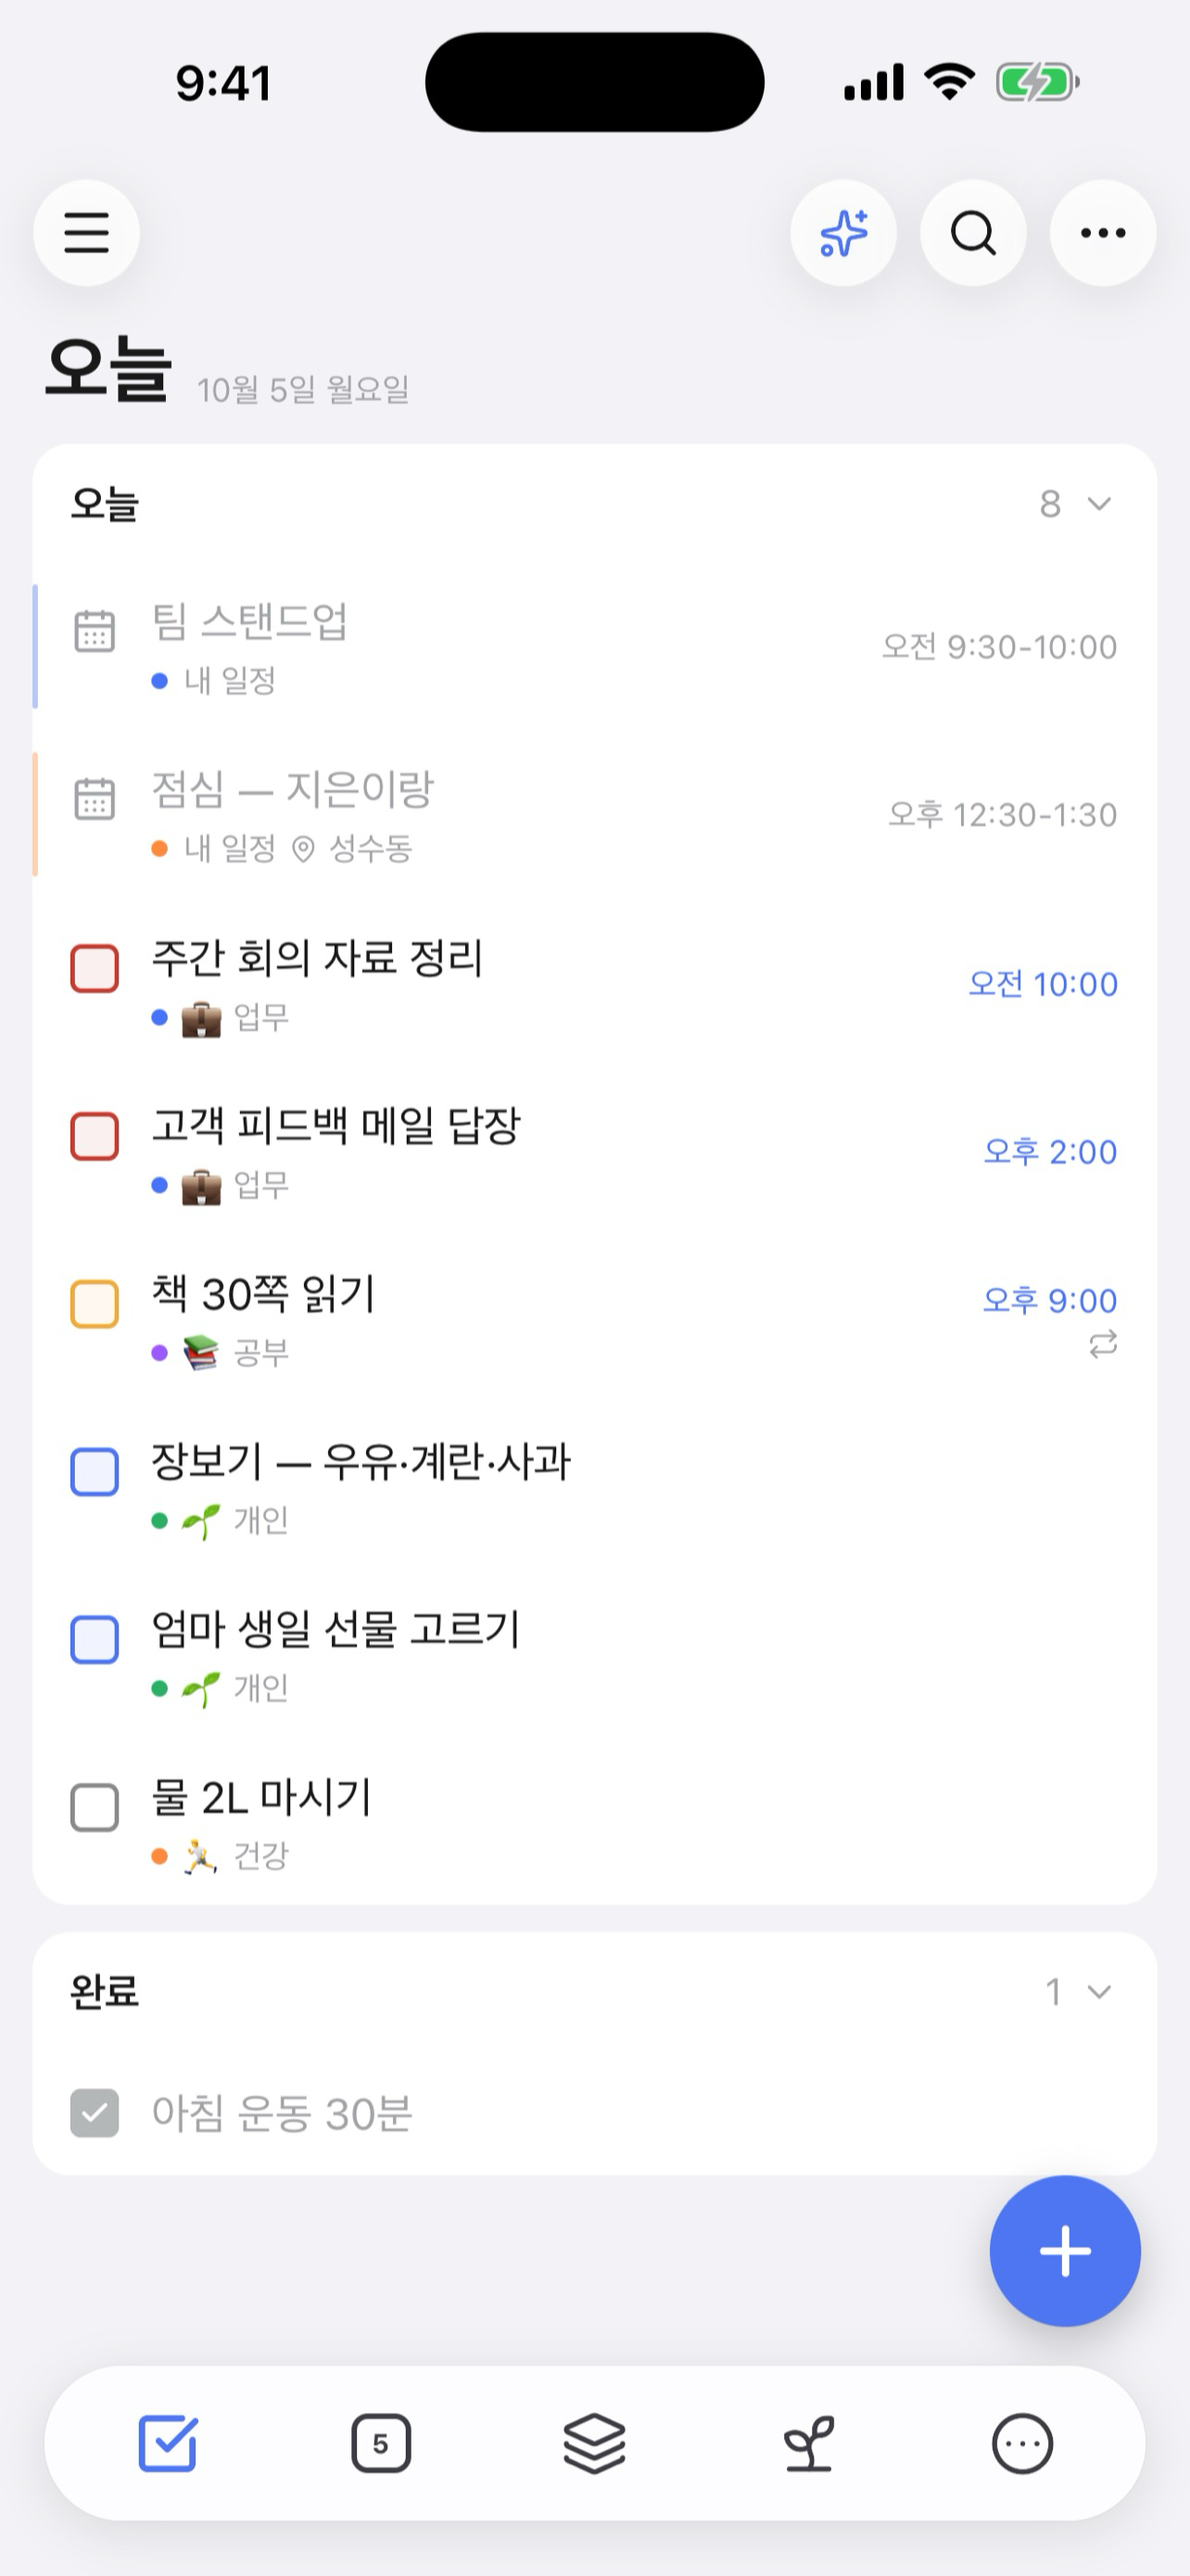
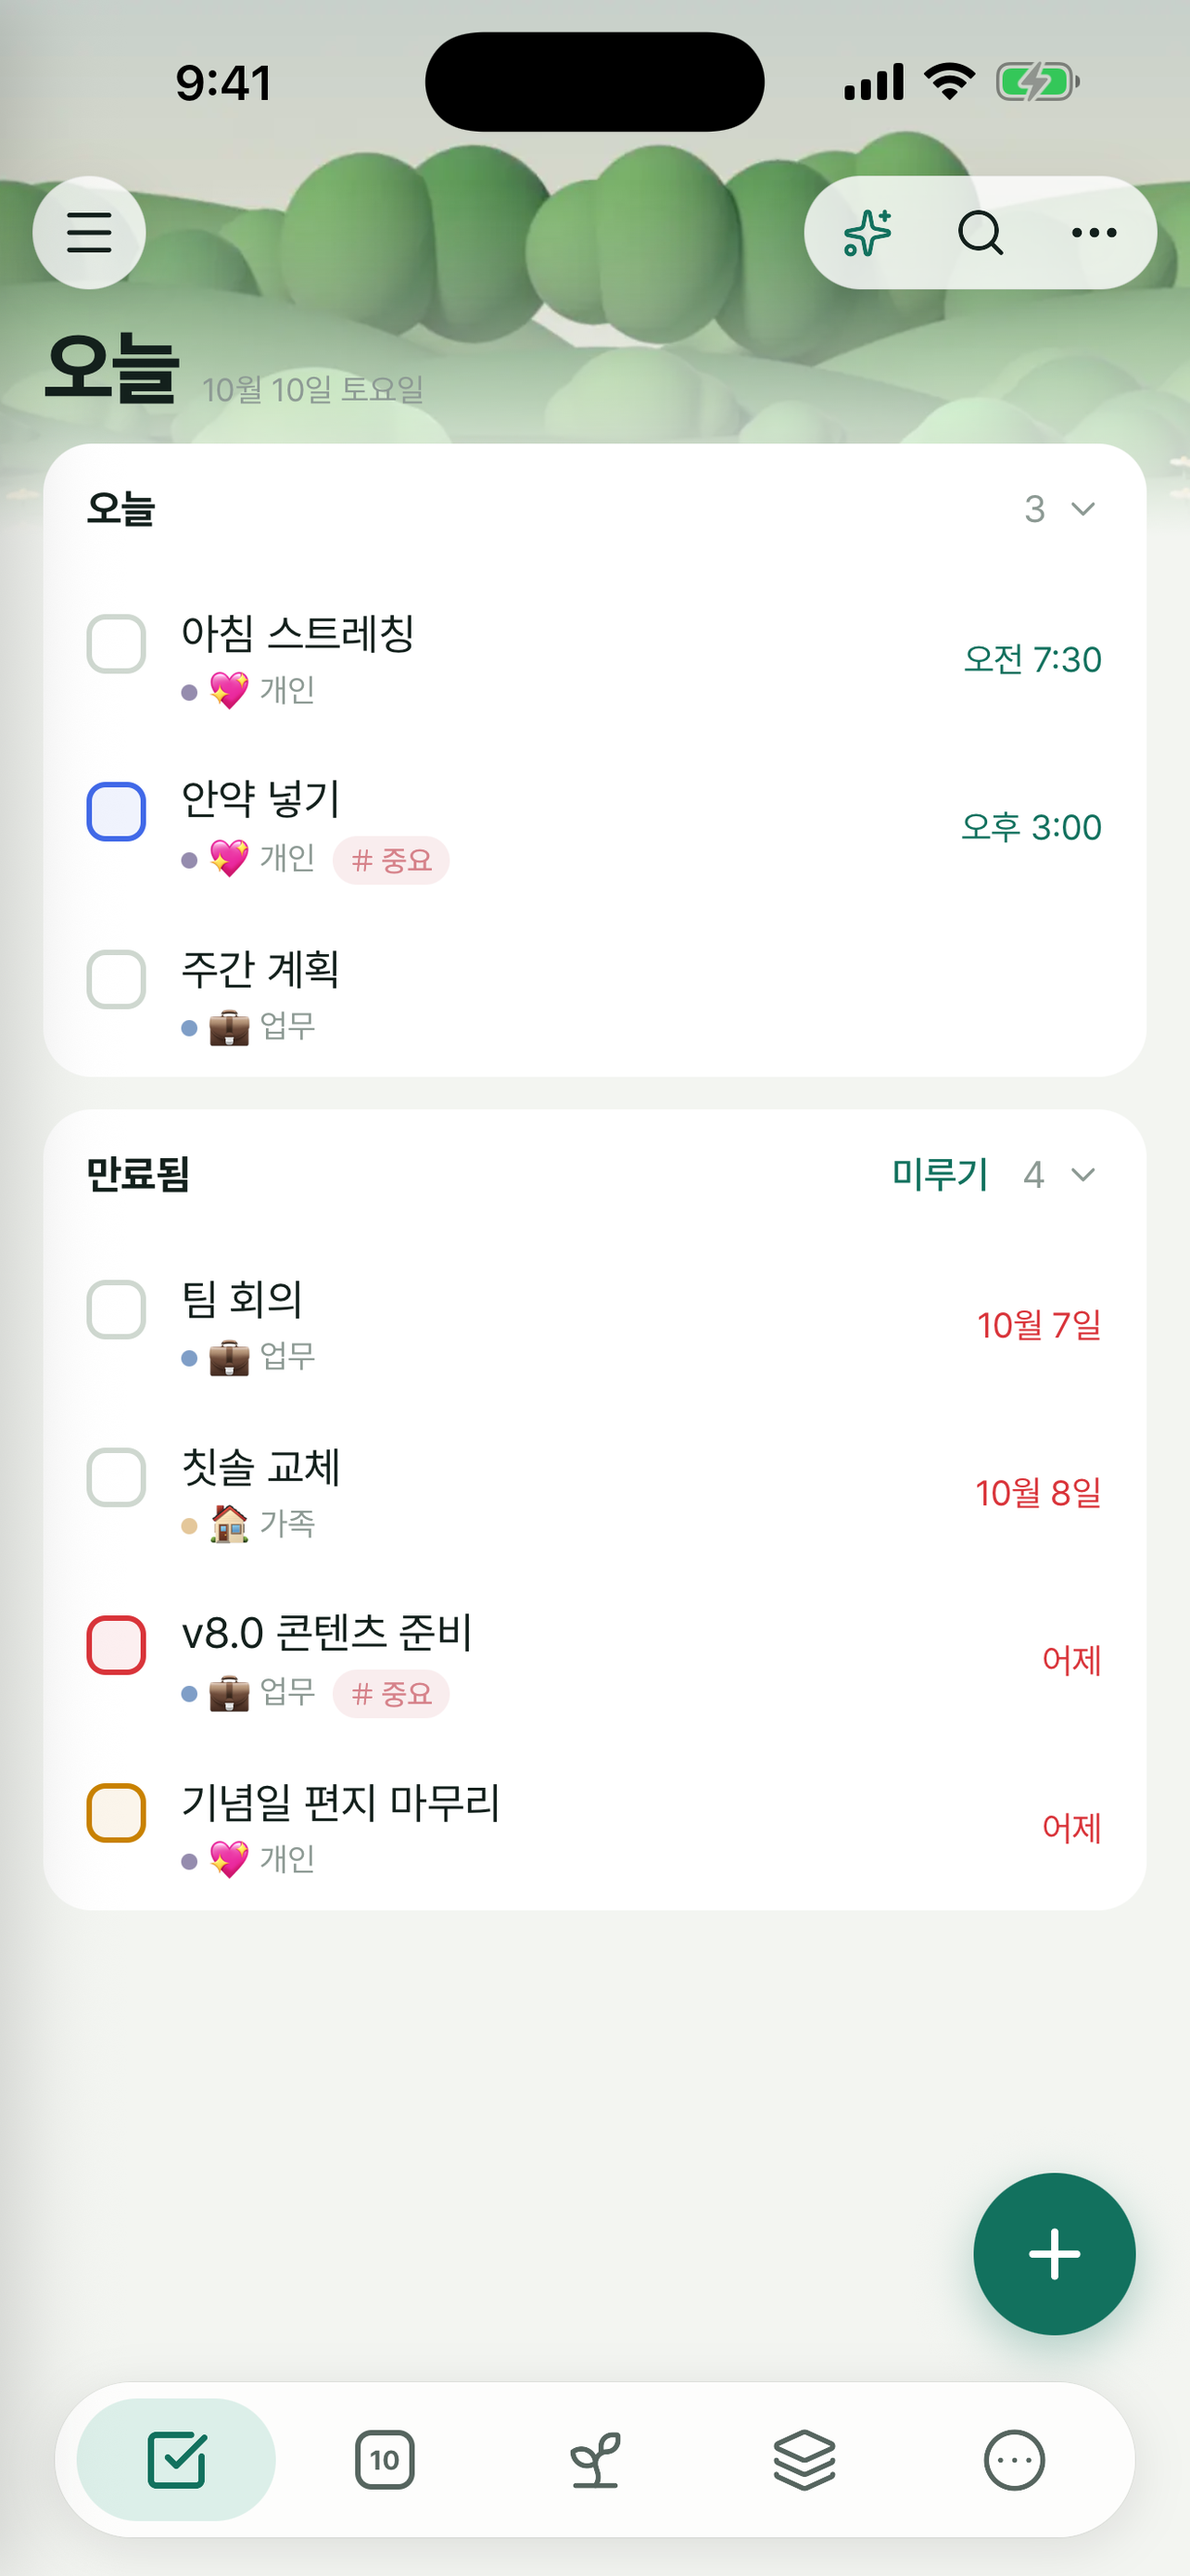
iOS 스토어 스크린숏 6장 새 디자인으로(6.9 · 6.5): 오늘 · 캘린더 · 성장(3D 정원·캐릭터) · 빠른 추가 · AI 비서 · AI 답 — 캡션 표 갱신

diff --git a/docs/release/store/screenshots/ios/captions.md b/docs/release/store/screenshots/ios/captions.md
@@ -1,16 +1,16 @@
-# 꿈틀 iOS 스크린숏 (2026-10-05)
+# 꿈틀 iOS 스크린숏 (2026-10-10 — 새 디자인: 마스코트·3D 장면)
 
 - 찍은 기기: iPhone 17 Pro Max 시뮬레이터(iOS 26.5), Release 빌드, 상태 표시줄 9:41, 라이트 테마, 한국어
-- 데이터: 심사용 데모 계정([../../review-notes.md](../../review-notes.md))의 샘플 데이터. AI 답은 실제 Mac mini 서버가 낸 것
+- 데이터: 스크린숏 전용 시험 계정(데스크톱 첫 실행 예시 데이터 — 오늘 날짜 기준, 찍은 뒤 삭제). 성향 조사로 태어난 캐릭터 "도토"(꾸준한 달팽이형). AI 답은 실제 Mac mini 서버가 낸 것. 성장·AI 비서 배경은 찍은 시각의 '자동' 장면(노을)
 - `6.9/` = 1320 × 2868 (6.9", 필수) · `6.5/` = 1284 × 2778 (6.9" 원본을 줄이고 위아래 6px씩 잘라 만듦) — 둘 다 알파 없는 PNG
 - 아이폰 전용(`supportsTablet: false`)이라 iPad 스크린숏은 없다
 - App Store Connect에는 아래 순서로 올린다. 캡션 띠를 넣을 때는 앱 화면 자체는 손대지 않는다
 
 | # | 파일 | 화면 | 캡션 KO | 캡션 EN |
 |---|---|---|---|---|
-| 1 | `01-today.png` | 할 일 탭 › 오늘 (일정·우선순위·완료 1개) | 오늘 할 일을 한눈에 | Today, at a glance |
-| 2 | `02-calendar.png` | 캘린더 탭 › 월 보기 (할 일·일정·공휴일) | 할 일과 일정을 한 캘린더에 | Tasks and events in one calendar |
-| 3 | `03-map-project.png` | 더보기 › 작업 지도 › 프로젝트 "제주 가족 여행" | 큰 일도 단계별로 차근차근 | Big plans, step by step |
-| 4 | `04-growth.png` | 성장 탭 (Lv 6 캐릭터, 이번 주 목표) | 해낸 만큼 캐릭터가 자라요 | Finish tasks, grow your character |
-| 5 | `05-quickadd.png` | 빠른 추가 — "내일 오후 3시 치과 예약" 날짜 자동 인식 | 떠오르면 바로 적기 | Capture it the moment it comes |
-| 6 | `06-ai.png` | 더보기 › AI 비서 — "이번 주 남은 할 일 보여줘" | 말하듯 묻고 만들기 | Just ask |
+| 1 | `01-today.png` | 할 일 탭 › 오늘 (시각·우선순위·태그, 만료됨 묶음) | 오늘 할 일을 한눈에 | Today, at a glance |
+| 2 | `02-calendar.png` | 캘린더 탭 › 월 보기 (할 일 막대·공휴일) | 할 일과 일정을 한 캘린더에 | Tasks and events in one calendar |
+| 3 | `03-growth.png` | 성장 탭 (3D 정원, 캐릭터 도토, 연속 불꽃) | 해낸 만큼 캐릭터가 자라요 | Finish tasks, grow your character |
+| 4 | `04-quickadd.png` | 빠른 추가 — "내일 오후 3시 치과 예약" 날짜 자동 인식 | 떠오르면 바로 적기 | Capture it the moment it comes |
+| 5 | `05-ai.png` | AI 비서 — 무엇을 도와줄까? (정원 위 캐릭터·추천 질문) | 말하듯 묻고 만들기 | Just ask |
+| 6 | `06-ai-answer.png` | AI 비서 답 — "이번 주 뭐가 제일 급해?" → 급한 순 목록 | 내 할 일에서 찾아 답해요 | Answers from your own tasks |
